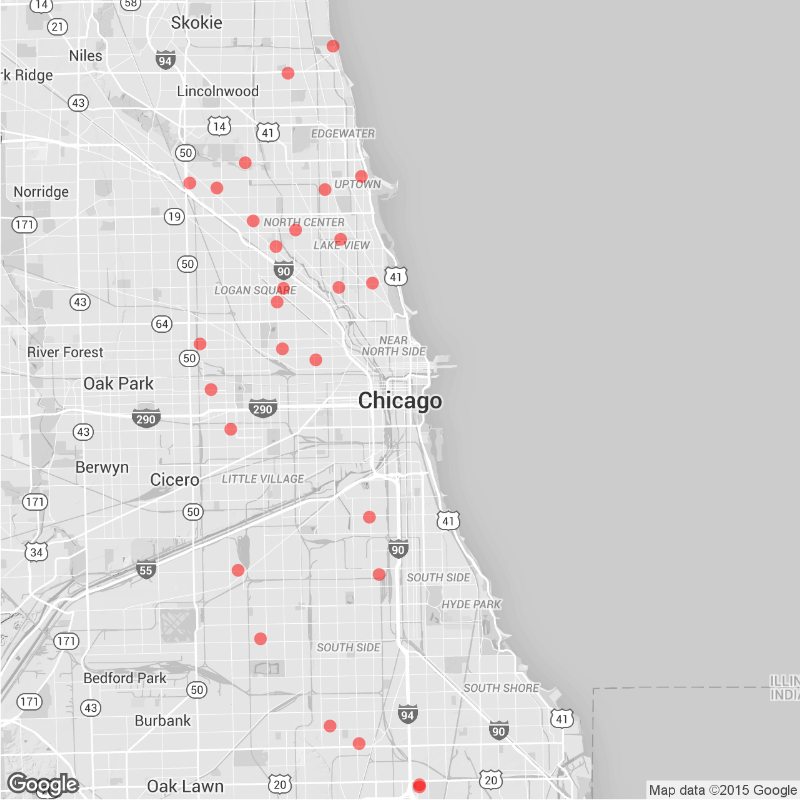
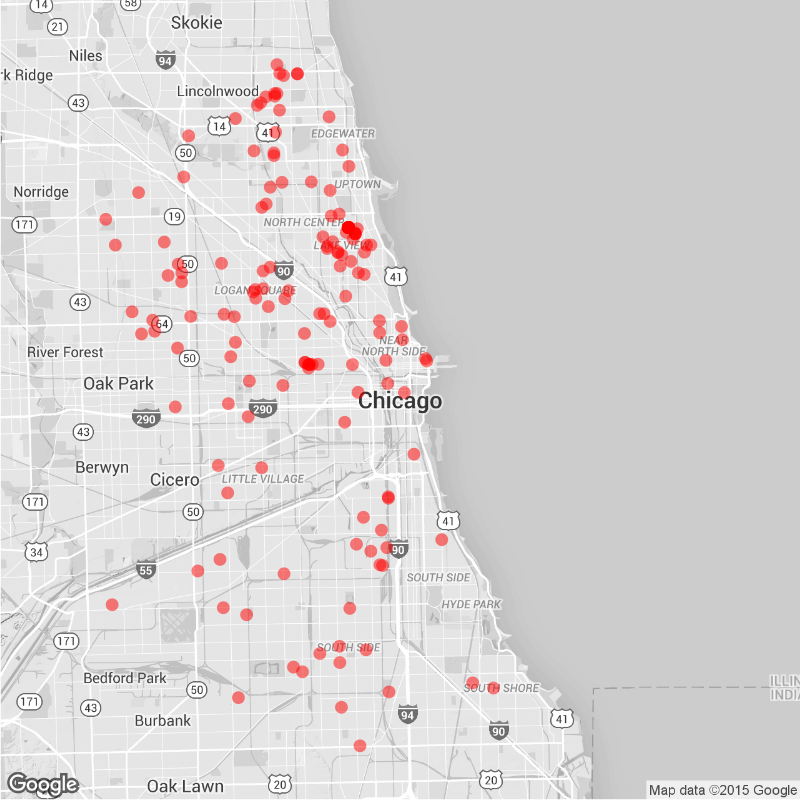
Daily Maps

diff --git a/daily.md b/daily.md
@@ -15,22 +15,22 @@ tags: Chicago NYC weekly daily rats
 
 ### Daily
 
-Yesterday (November 15), there were 28 calls to Chicago's 311 line about rats.
+Yesterday (November 16), there were 163 calls to Chicago's 311 line about rats.
 ![Chicago rat calls to 311 weekly map]({{ site.cityimages }}/daily/Chicago_Rat_Map_Daily.png)
 
 ### Weekly
-Between November 09 and November 15, there were 690 calls to Chicago's 311 line about rats. The average number of weekly calls for this time of year is 436.
+Between November 10 and November 16, there were 672 calls to Chicago's 311 line about rats. The average number of weekly calls for this time of year is 436.
 ![Chicago rat calls to 311 weekly map]({{ site.cityimages }}/daily/Chicago_Rat_Map_Weekly.png)
 ***
 # New York City <a id="nyc"><a>
 
 ### Daily
 
-Yesterday (November 15), there were 0 calls to New York City's 311 line about rats.
+Yesterday (November 16), there were 0 calls to New York City's 311 line about rats.
 ![NYC rat calls to 311 weekly map]({{ site.cityimages }}/daily/NYC_Rat_Map_Daily.png)
 
 ### Weekly
-Between November 09 and November 15, there were 0 calls to New York City's 311 line about rats. The average number of weekly calls for this time of year is 152.
+Between November 10 and November 16, there were 0 calls to New York City's 311 line about rats. The average number of weekly calls for this time of year is 152.
 ![NYC rat calls to 311 weekly map]({{ site.cityimages }}/daily/NYC_Rat_Map_Weekly.png)
 
 Each red dot represents one call about a rat seen in that location. The dots are transparent, so multiple calls from one location will be seen as a solid dot. The usual caveats apply: more calls do not necessarily mean that there are more rats in that location than other parts of the city. A cluster of dots could indicate that one resident is unusually vocal about rodents in his or her neighborhood. Also, more densely populated neighborhoods tend to make more calls to 311.
